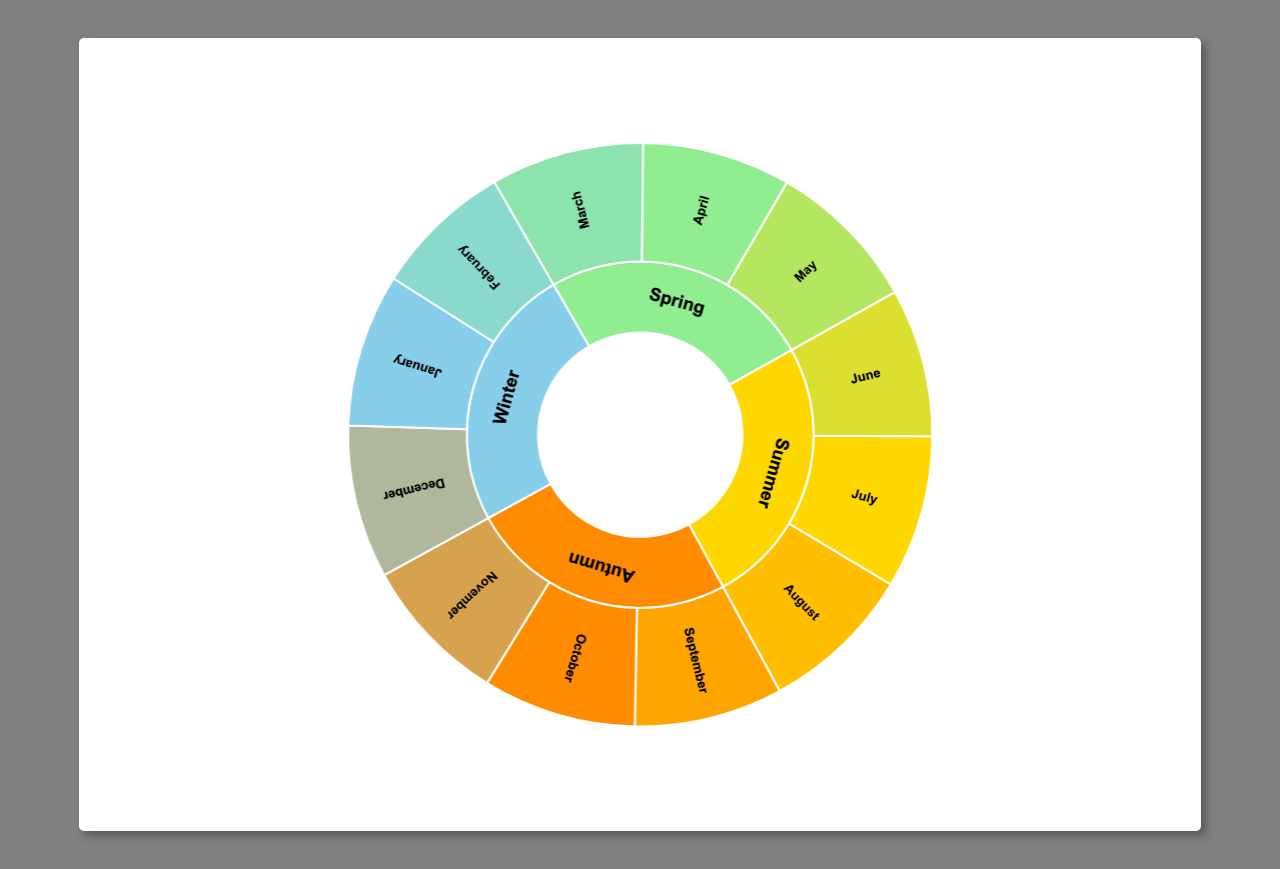
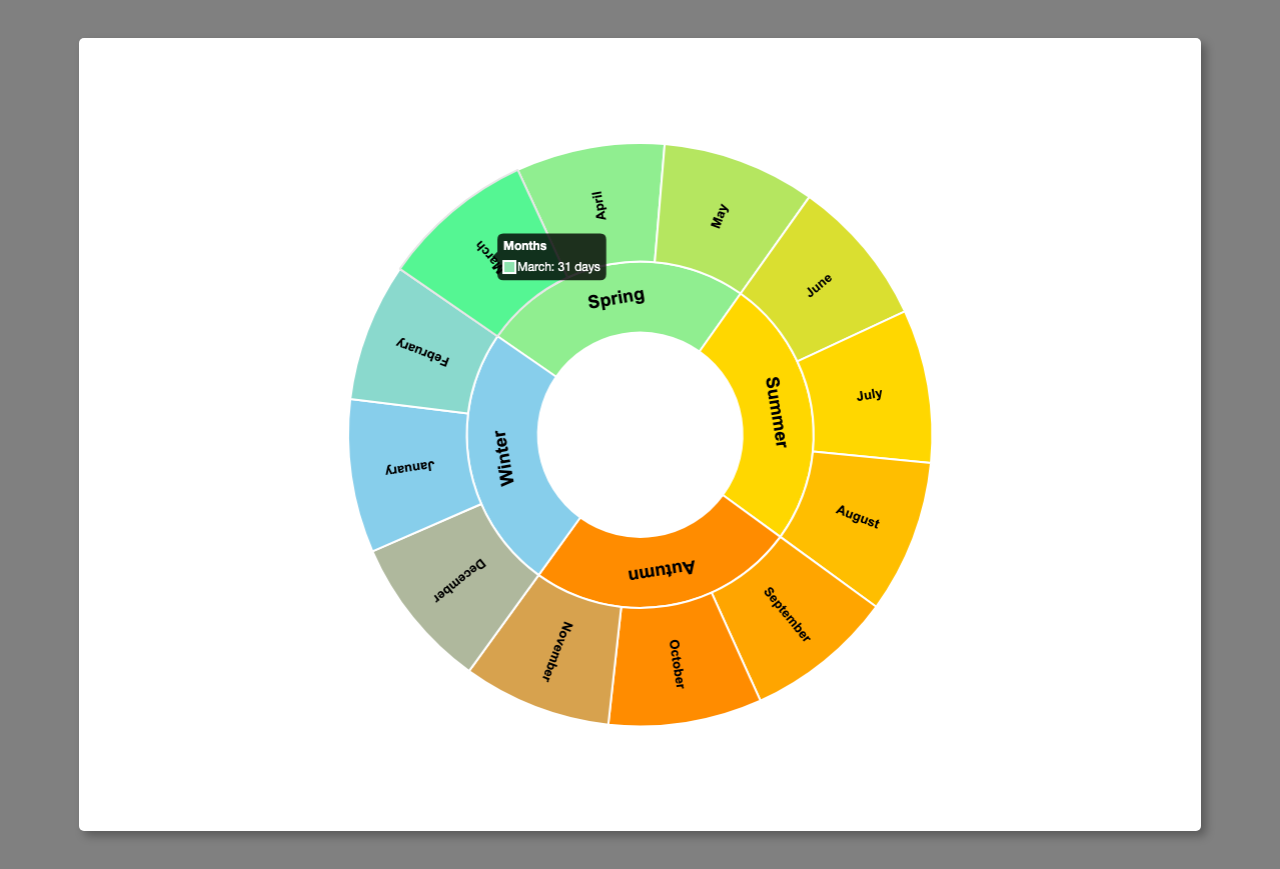
Update tests

Changed region(s): [[0.25, 0.1554, 0.75, 0.8389]]

diff --git a/tests/screenshot.spec.ts b/tests/screenshot.spec.ts
@@ -18,6 +18,14 @@ test.describe('Poster Screenshot Tests', () => {
       await page.waitForTimeout(50) // 50ms pause (adjust if needed)
     }
 
+    // Rotates chart even more left with a mouse
+    await page.mouse.move(800, 400)
+    await page.mouse.down()
+    await page.mouse.move(750, 350)
+    await page.mouse.up()
+    // Moves mouse to the month
+    await page.mouse.move(600, 200)
+
     // Take a screenshot and compare to snapshot
     await expect(page).toHaveScreenshot('poster-page.png', {
       fullPage: true,